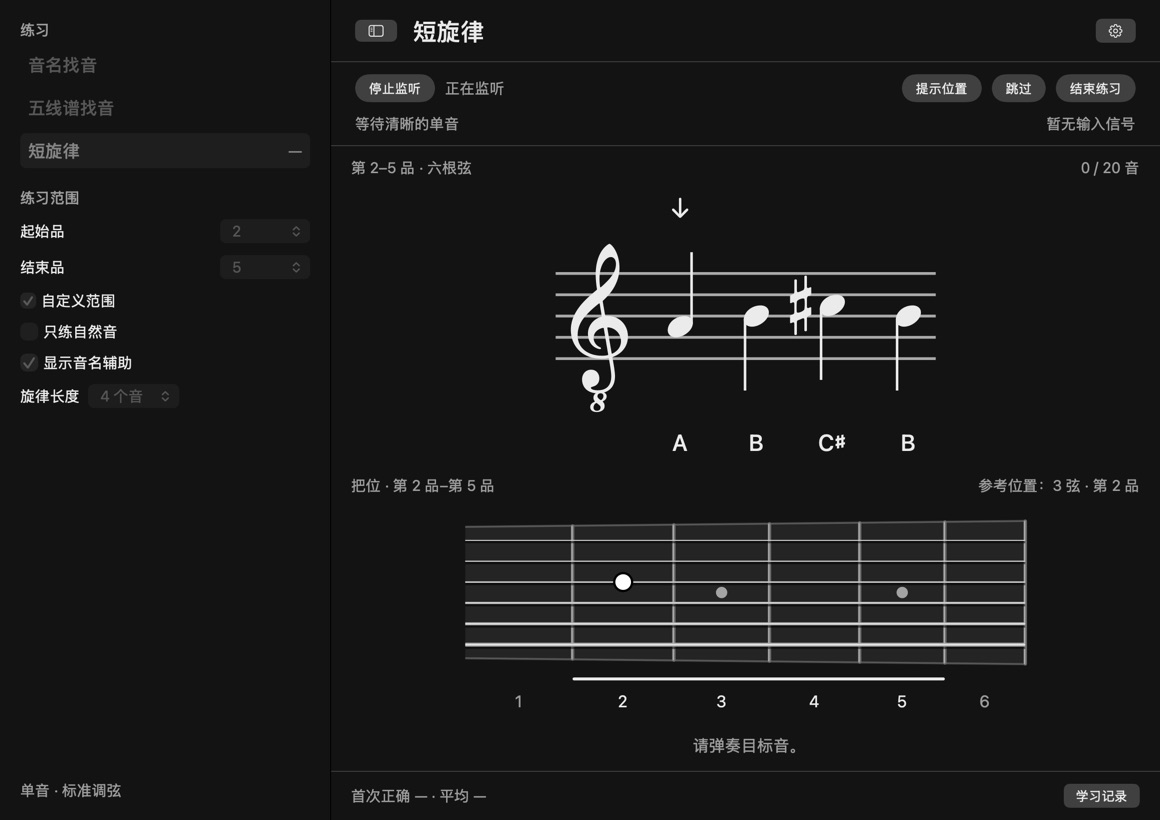
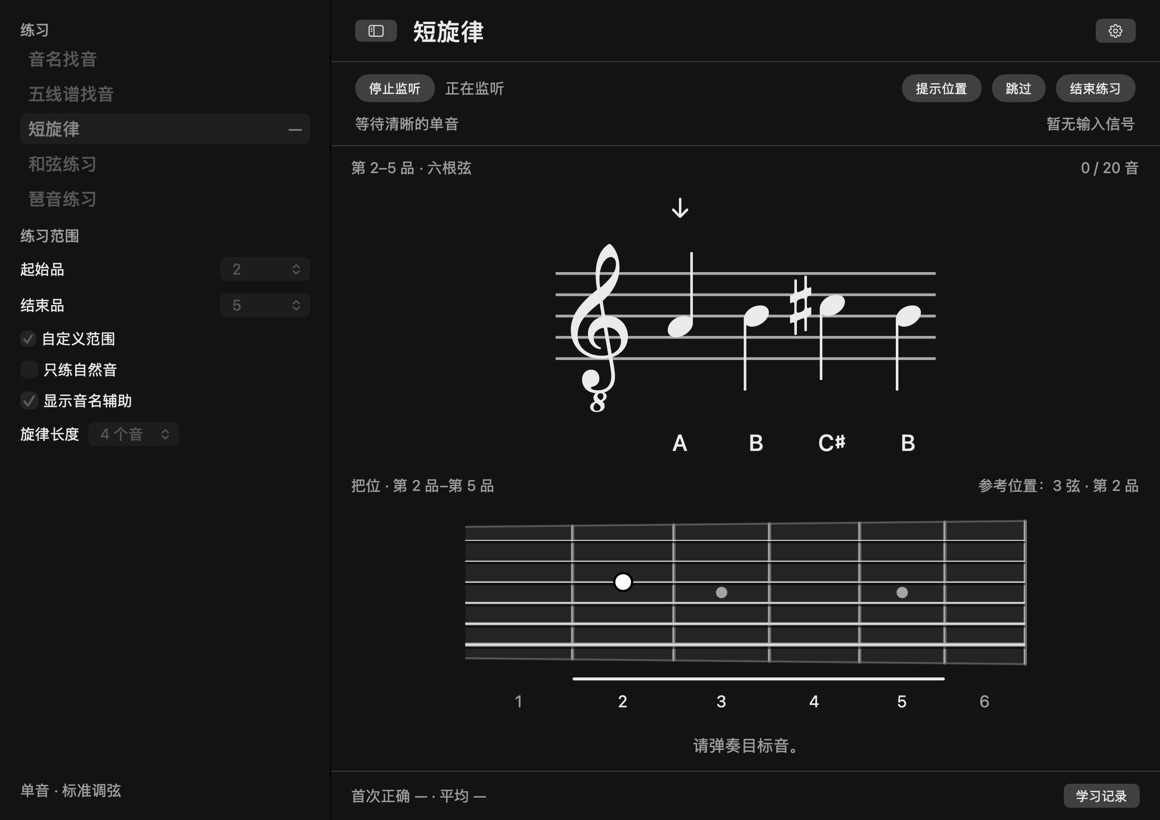
Refresh screenshots for shared chord and arpeggio navigation

Changed region(s): [[0.0, 0.061, 0.1241, 0.5488]]

diff --git a/README.md b/README.md
@@ -15,6 +15,18 @@ Connect a guitar through an audio interface, read the note, and play it. FretNot
 
 Actual app views rendered with demo data; no personal learning records are shown.
 
+### Chord practice · 135
+
+![Chord learning with shared exercise navigation](docs/screenshots/chord-learning-light.jpg)
+
+### Arpeggio practice
+
+![Arpeggio learning with degrees, note names and string positions](docs/screenshots/arpeggio-learning-light.jpg)
+
+### Chord practice · 137 · Dark
+
+![Root–third–seventh chord learning in dark mode](docs/screenshots/shell-learning-dark.jpg)
+
 ### Sight-reading · Light
 
 ![Sight-reading with staff notation and a six-string fretboard](docs/screenshots/sight-reading-light.jpg)

diff --git a/README.zh-CN.md b/README.zh-CN.md
@@ -12,6 +12,18 @@
 
 以下为实际 App 界面，使用演示数据，不包含个人学习记录。
 
+### 和弦练习 · 135
+
+![和弦学习与统一练习侧栏](docs/screenshots/chord-learning-light.jpg)
+
+### 琶音练习
+
+![琶音指板、音级、音名与弦品位置](docs/screenshots/arpeggio-learning-light.jpg)
+
+### 和弦练习 · 137 · 深色
+
+![137 和弦学习深色界面](docs/screenshots/shell-learning-dark.jpg)
+
 ### 五线谱找音 · 浅色
 
 ![五线谱找音与六弦指板](docs/screenshots/sight-reading-light.jpg)
